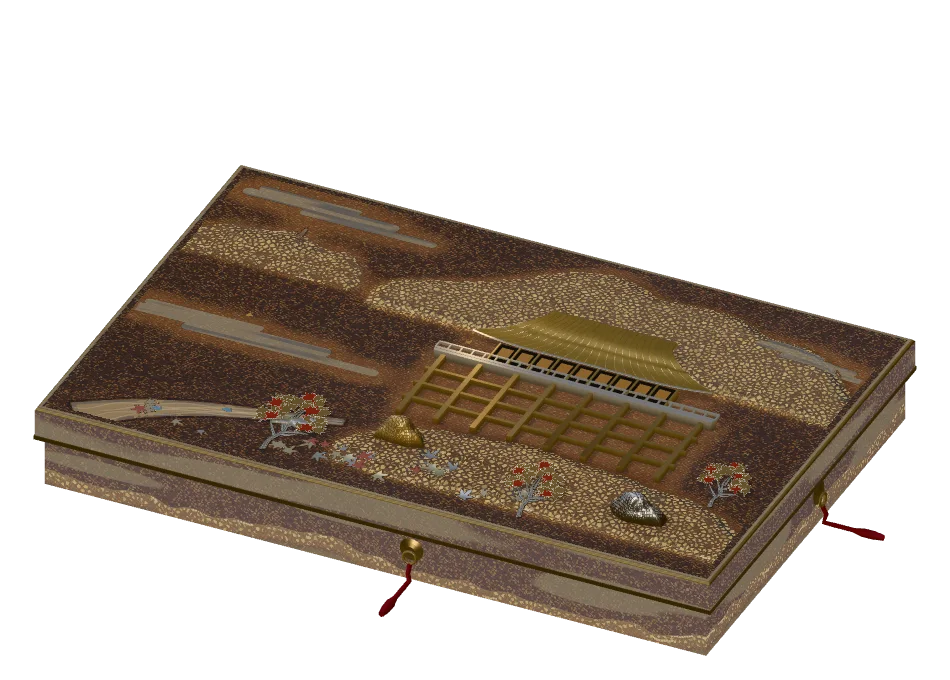
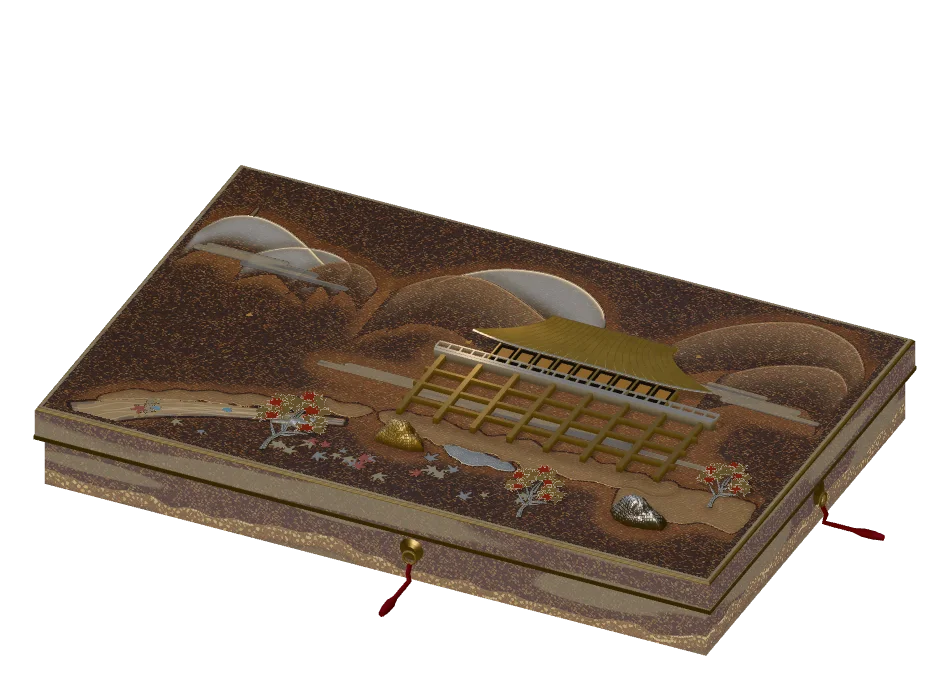
feat(plate): Higashiyama and Kita rebuilt with distant mountains, shores and mist in place of hills and the platform (nine wards, batch 1)
- Higashiyama: Otowa-yama as four overlapping heads behind the stage, a low
  western range, a shore along the Otowa water, mist under the stage posts.
- Kita: Kinugasa-yama as three low heads behind the pavilion, a ring of suhama
  round the pond with a silver waterline, mist.
- Outlines written by hand per piece; rocks untouched (user's instruction).
- Tests cover the two wards; fallback pictures for the two wards reshot.
Known: dark saw-tooth wedges at some mountain feet (from the wedge bake, also in
Fushimi); bake time +40 to +60 ms. Report: docs/agent-runs/2026-11-16-nine-wards.md.

For the user's review of direction; batches 2 and 3 wait on it.
Implemented by a Sonnet subagent, reviewed by the chair.

Changed region(s): [[0.0916, 0.2471, 0.9158, 0.8338]]

diff --git a/src/studies/toji/plate/higashiyama.js b/src/studies/toji/plate/higashiyama.js
@@ -1,23 +1,67 @@
 // 東山区・清水. One mass held in the air: the hall and its stage on a lattice over the drop, Otowa behind it,
-// maples in the valley. The left third is the drop itself: empty ground, a far ridge and a thread of water.
-import {MAT, hill, hillCrest, stream, suyari, rock, hall, bird, shell, kakezukuri, stampedMaple as maple, fallenLeaves, farPagoda} from './vocab.js';
+// maples in the valley. The left third is the drop itself: empty ground, the far western range and a thread of water.
+// The ground (doha.js) is drawn piece by piece, every outline written here as control points:
+//   Otowa-yama   ONE body of four rounded heads behind the hall; the tallest just right of the hall; two lower heads flank the hall on its left. The
+//                stage is thrust out of its flank. Its foot is dissolved by a band of mist. No rocks on it.
+//   the west     three low, pale heads at the far upper left (Nishiyama): the city's far side, with Yasaka's pagoda on its crest.
+//   the banks    a scalloped bank the lattice stands on, an arm of it following the Otowa water down to the left, an arm
+//                on the right under the maple; a thin silver ribbon under the front of the stage bank.
+// The mist across the lattice's middle is what makes it hang: the ground is behind it, far below.
+import {MAT, stream, suyari, rock, hall, bird, shell, kakezukuri, stampedMaple as maple, fallenLeaves, farPagoda} from './vocab.js';
+import {mountain, tongues} from './doha.js';
+
+// Toyama maki-e: each head is one smooth arc, [x, z] from its left foot to its right: a main peak and a shoulder or two, never the
+// same either side. Far to near. Why: the Otowa hill is what the stage is built against; its crest is the brightest line on the lid.
+const OTOWA = [
+  // 1 (blue-gold, the farthest, at the hall's left): a round head with its peak a little left of the middle, the roof's left slope below it
+  {ridge: [[-112, -112], [-88, -150], [-54, -180], [-8, -192], [34, -182], [68, -156], [86, -124]], depth: 84, tone: 'blue'},
+  // 2 (gold) the tallest, standing right of the hall: climbs slowly from behind the roof, drops steeply at the right
+  {ridge: [[150, -112], [178, -164], [222, -204], [270, -222], [318, -208], [346, -178], [360, -148]], depth: 92},
+  // 3 (gold) in front on the left: a broad shoulder at the drop's edge that falls away to the right toward the hall
+  {ridge: [[-136, -94], [-118, -124], [-94, -148], [-58, -154], [-16, -138], [22, -116], [50, -96]], depth: 92},
+  // 4 (gold) in front on the right: a small head with its peak toward the right, the last of the range
+  {ridge: [[226, -96], [238, -112], [258, -132], [290, -150], [324, -156], [346, -138], [356, -116]], depth: 72},
+];
+// Nishiyama, at the far upper left: one pale head in the blue metal, a second behind it, a small gold one in front on the right.
+const WEST = [
+  {ridge: [[-360, -110], [-346, -146], [-322, -162], [-290, -158], [-256, -140], [-226, -118], [-204, -102]], depth: 62, tone: 'blue'},
+  {ridge: [[-292, -96], [-278, -114], [-258, -128], [-228, -134], [-200, -126], [-182, -104]], depth: 52, tone: 'blue'},
+  {ridge: [[-232, -90], [-214, -116], [-190, -126], [-166, -114], [-150, -92]], depth: 46},
+];
+// The banks. Each outline is written round the piece, one point per bend of the shore (a scalloped edge: sharp coves, round lobes).
+const BANKS = [
+  // the thin silver ribbon under the front of the stage bank: only a hand's breadth of it shows below the gold
+  {p: [[30, 132], [48, 128], [72, 130], [96, 134], [112, 142], [104, 150], [84, 148], [70, 156], [52, 151], [36, 145]], tone: 'silver', seed: 61},
+  // the stage bank: the lattice's posts all stand on it; its upper edge lies behind them, its lower edge in gentle waves
+  {p: [[-56, 108], [-46, 100], [-30, 96], [-14, 98], [2, 92], [20, 96], [34, 101], [48, 95], [62, 100], [76, 92], [90, 95], [104, 90], [118, 96], [130, 99], [154, 93], [170, 90], [184, 96], [198, 92], [214, 99], [230, 95], [246, 101], [262, 96], [270, 100], [274, 110],
+    [270, 122], [252, 128], [234, 124], [214, 131], [192, 128], [170, 134], [148, 130], [130, 134], [118, 139], [106, 131], [94, 137], [82, 128], [58, 132], [36, 128], [22, 135], [8, 129], [-6, 135], [-18, 128], [-32, 132], [-42, 124], [-50, 120]], tone: 'gold', seed: 62, kiri: [.5, .62]},
+  // the water's bank: from under the stage's left foot down the valley beside the Otowa water, a narrow arm that follows it
+  {p: [[-62, 108], [-80, 104], [-98, 109], [-114, 106], [-130, 116], [-148, 118], [-166, 128], [-184, 130], [-202, 140], [-222, 142], [-240, 152], [-258, 154], [-274, 166], [-294, 170], [-312, 184], [-322, 196],
+    [-318, 204], [-300, 198], [-290, 190], [-278, 192], [-268, 181], [-256, 184], [-246, 171], [-234, 172], [-226, 162], [-206, 160], [-196, 152], [-184, 154], [-170, 146], [-158, 149], [-148, 142], [-140, 139], [-130, 141], [-120, 133], [-110, 135], [-100, 127], [-88, 128], [-72, 124]], tone: 'gold', seed: 63},
+  // the east bank: a broad arm under the maple on the right, its lower edge dipping to the stone
+  {p: [[226, 110], [240, 104], [258, 100], [276, 102], [296, 96], [318, 98], [338, 94], [358, 100],
+    [358, 146], [342, 152], [324, 148], [306, 156], [288, 162], [270, 172], [254, 176], [240, 166], [228, 158], [222, 144], [220, 126]], tone: 'gold', seed: 64},
+];
+/** The clusters, for the measuring and checking scripts. */
+const PIECES = {OTOWA, WEST, BANKS};
+export {PIECES};
 
 export function higashiyama() {
   return [
-    // Layer 0: the mountain behind the hall, the slope the lattice stands on, a far ridge, and the water.
-    ...hill('otowa', -150, 372, -218, -92, 13, {amp: .8, humps: 2}),
-    ...hill('slope', -70, 372, 84, 176, 27, {amp: .7, mat: MAT.gyobu, humps: 1}),
-    ...hill('ridge-west', -372, -176, -150, -108, 35, {amp: .32, mat: MAT.nashijiLight, humps: 3}),
+    // Layer 0: Otowa, the western range, the banks, and the water.
+    ...mountain('otowa', OTOWA),
+    ...mountain('nishiyama', WEST),
+    ...tongues('bank', BANKS),
     ...stream('otowa-water', [[-80, 138], [-150, 156], [-222, 176], [-284, 204], [-330, 238]], [5, 8, 12, 17, 24]),
     ...shell('shell', [[-118, 146, 4, 2], [-196, 166, 4.8, 5], [-262, 192, 5.4, 8]]),
-    // Yasaka's pagoda on the west ridge, very small and pale: its height is under a quarter of the hall's.
-    ...farPagoda('yasaka-tower', -262, hillCrest(-372, -176, -150, -108, 35, {humps: 3})(-262) + 1, 20, {on: 'ridge-west'}),
+    // Yasaka's pagoda on the crest of the western range, very small and pale: its height is under a quarter of the hall's.
+    ...farPagoda('yasaka-tower', -322, -161, 20, {on: 'nishiyama-blue'}),
     // Fallen leaves of cut gold and silver drift from the maples down the valley toward the water.
     ...fallenLeaves('momiji', -60, 192, 240, 34, 30, 7),
-    // Slot 1: mist and stones.
-    ...suyari('mist-drop', -372, -84, 34, 16, 5),
-    ...suyari('mist-sky', -350, -130, -200, 14, 11),
-    ...suyari('mist-east', 236, 372, -158, 12, 8),
+    // Slot 1: mist and stones. The mist across the lattice is the void under the stage; the others cut the feet of the two ranges.
+    ...suyari('mist-under', -150, 290, 52, 11, 5),
+    ...suyari('mist-west', -352, -176, -88, 11, 11),
+    ...suyari('mist-hall', 210, 352, -70, 12, 8),
     ...rock('rock-a', -10, 150, 30, 20, 5),
     ...rock('rock-b', 262, 176, 34, 22, 7, {mat: MAT.kirigin}),
     // Slot 2: the stage. Lattice, deck, hall and roof are one solid standing on the lattice's foot.

diff --git a/src/studies/toji/plate/kita.js b/src/studies/toji/plate/kita.js
@@ -1,6 +1,12 @@
-// A horizontal mirror: three gold storeys rise from the far bank, their broken image lies in still water.
+// A horizontal mirror: three gold storeys rise from the north bank, their broken image lies in still water.
 // The island pine balances the pavilion; the entire lower-left quarter stays bare lacquer and nashiji.
-import {MAT, blob, gardenGround, hill, pond, phoenix, storey, roof, branchPine as pine, bird, rock, suyari, grassTufts} from './vocab.js';
+// The ground (doha.js) is drawn piece by piece, every outline written here as control points:
+//   Kinugasa-yama  one low, wide body of three round heads behind the pavilion, with the pavilion standing in the saddle
+//                  between the two left heads so that its roofs and phoenix are read against the lacquer, not against powder.
+//   the suhama     the pond's shore: thick on the north (the pavilion stands on it) and the west, a thin silver ribbon along the
+//                  north waterline, a thin gold tongue from the south-east that carries the island pine.
+import {MAT, blob, pond, phoenix, storey, roof, branchPine as pine, bird, rock, suyari, grassTufts} from './vocab.js';
+import {mountain, tongues} from './doha.js';
 
 // The outline pond() draws for 'kyoko' (same arguments): the reeds are set on its north-west bank.
 const POND = [-5, 68, 244, 82, 3];
@@ -10,6 +16,33 @@ function reed(i, h, n) {
   const [x, z] = shore[i];
   return [x, z - 1.2, h, n, .16];
 }
+
+// Kinugasa, far to near. Why: it is the green hill behind the Golden Pavilion; low, so it answers the pavilion instead of competing.
+const KINUGASA = [
+  // 1 (blue-gold, the farthest) at the far left: a full arc, its peak a little left of the middle
+  {ridge: [[-340, -118], [-316, -152], [-276, -176], [-232, -182], [-190, -170], [-160, -146], [-142, -118]], depth: 70, tone: 'blue'},
+  // 2 (gold) the broadest, right of the pavilion: climbs slowly and drops at the right
+  {ridge: [[-60, -110], [-34, -142], [10, -168], [72, -182], [134, -176], [186, -152], [214, -122]], depth: 78},
+  // 3 (gold) in front on the right: a low shoulder with its peak toward the right
+  {ridge: [[120, -100], [148, -112], [182, -128], [218, -146], [252, -150], [286, -138], [324, -118], [352, -100]], depth: 66},
+];
+// The pond's shore, listed far to near (a later piece lies over an earlier one).
+const SHORE = [
+  // north: the thick gold bank the pavilion stands on; its upper edge behind the pavilion in low waves, its lower edge a little over the water
+  {p: [[-326, -30], [-312, -42], [-292, -48], [-270, -44], [-250, -52], [-226, -56], [-202, -50], [-178, -57], [-150, -60], [-122, -54], [-96, -58], [-68, -56], [-40, -50], [-28, -55], [-14, -49], [0, -54], [12, -47], [26, -52], [38, -44], [64, -48], [76, -43], [88, -49], [98, -39], [112, -30], [124, -16],
+    [118, -4], [96, -6], [76, -12], [50, -16], [26, -14], [4, -18], [-12, -10], [-30, -16], [-46, -9], [-62, -15], [-78, -6], [-96, -13], [-110, -9], [-132, -6], [-158, 8], [-170, 15], [-184, 11], [-196, 22], [-210, 20], [-222, 31], [-236, 28], [-250, 34], [-272, 26], [-296, 20], [-318, 6], [-328, -12]], tone: 'gold', seed: 71, kiri: [.5, .58]},
+  // west: a thick crescent along the pond's west end, over the end of the north bank
+  {p: [[-272, 28], [-252, 34], [-238, 48], [-226, 60], [-232, 72], [-224, 86], [-234, 98], [-244, 112], [-258, 126],
+    [-282, 126], [-296, 112], [-304, 94], [-312, 76], [-316, 56], [-306, 40], [-290, 32]], tone: 'gold', seed: 72},
+  // north waterline: the silver ribbon laid over the gold bank's lower edge, only a hand's breadth wide
+  {p: [[-186, 10], [-160, 2], [-136, -6], [-110, -10], [-84, -12], [-58, -8], [-44, -13], [-30, -9], [-16, -13], [-4, -10], [22, -6], [52, -4], [74, 0],
+    [66, 8], [44, 6], [18, 10], [-8, 6], [-34, 8], [-60, 4], [-86, 8], [-112, 3], [-140, 10], [-164, 16]], tone: 'silver', seed: 73},
+  // south-east: a thin tongue from the shore out under the island pine, ending at the stone
+  {p: [[150, 92], [164, 86], [182, 90], [200, 100], [218, 112], [234, 124], [244, 140], [236, 150], [220, 146], [204, 136], [188, 126], [172, 116], [158, 106]], tone: 'gold', seed: 74},
+];
+/** The clusters, for the measuring and checking scripts. */
+const PIECES = {KINUGASA, SHORE};
+export {PIECES};
 
 export function kita() {
   const pavilion = [];
@@ -21,13 +54,13 @@ export function kita() {
       {group: 'kinkaku', order: i * 2 + 1, ridgeHalf: w * .48, motionWith: `kinkaku-wall-${i}`}));
   }
   return [
-    ...gardenGround('shore-ground', [[-345, -210], [165, -210], [244, -122], [222, -35], [320, 100], [295, 173], [-43, 185], [-155, 145], [-300, 88]]),
-    ...hill('far-bank', -270, 115, -213, -164, 12, {amp: .3, mat: MAT.mura}),
+    ...mountain('kinugasa', KINUGASA),
     ...pond('kyoko', -5, 68, 244, 82, 3, {reflection: {x: -85, z: 9, width: 78, height: 90}}),
+    ...tongues('suhama', SHORE),
     // Reeds of silver line work on the north-west bank, from the pavilion's west foot toward the shore stone.
     ...grassTufts('kyoko-reeds', [reed(45, 21, 5), reed(47, 25, 5), reed(49, 21, 5), reed(51, 18, 4)], {on: 'kyoko', mat: MAT.silver, seed: 5, w: 2.4, spread: .12}),
-    ...suyari('mist-west', -342, -202, -102, 13, 2),
-    ...suyari('mist-east', 105, 342, -195, 14, 7),
+    ...suyari('mist-west', -350, -196, -98, 10, 2),
+    ...suyari('mist-east', 232, 352, -84, 10, 7),
     ...rock('shore-stone', -246, 18, 29, 20, 5),
     ...rock('island-stone', 204, 134, 30, 18, 8, {mat: MAT.kirigin}),
     ...pavilion,

diff --git a/docs/agent-runs/2026-11-16-nine-wards.md b/docs/agent-runs/2026-11-16-nine-wards.md
@@ -1,0 +1,111 @@
+# 其餘九區 第一批：東山、北（報告）
+
+任務：九區 第一批 東山（W_HIGASHIYAMA）、北（W_KITA）／**完成**（等使用者看方向）。
+請求模型／強度：Sonnet 5.5，未指定強度；實際設定：未確認。
+工作區：`C:\Git\_wt_kyoto_doha`，分支 `agent/nine1-1116`，base `b12d3b5`。全部未提交。
+
+## 改了哪些檔案
+
+- `src/studies/toji/plate/higashiyama.js`、`kita.js`：拆掉 `hill()`、`gardenGround()`，改用 `mountain()`（遠山）與 `tongues()`（洲浜／岸）。每座山的稜、每片岸的輪廓逐點手寫；匯出 `PIECES` 供量測腳本讀。
+- `scripts/plate-doha-similar.mjs`：ward→模組表加入兩區。
+- `scripts/plate.test.mjs`：`dohaWards` 加入兩區；新增 `nineWards`（沿用的岩不計入舊的「3–20 顆」、群數、片數、銀比、岩總數範圍，改驗：遠山頭數、總佔比 15–35%、留白、直線 ≤30）；相似度測試對這兩區不驗岩（岩依指示未動）；零件數 東山 28→31、北 30→32。
+- `src/studies/toji/plate/static/W_HIGASHIYAMA.*`、`W_KITA.*`：降級圖重拍，其餘九區已還原。
+- 沒動：`doha.js`、`three-pack.js`、`three-renderer.js`、`bake.js`、`crag-mesh.js`、`src/data/`、受保護檔案、其餘九區、岩。
+
+## 每座山、每片岸的理由
+
+東山
+| 件 | 理由 |
+|---|---|
+| 音羽山 1（青金，最遠，本堂左側，稜頂略偏左） | 本堂左邊的山腰；屋頂左坡在它下面，山體從本堂兩側「抱」住舞台 |
+| 音羽山 2（金，最高，本堂右側，右端陡落） | 主峰，山體的重心；放在本堂右邊，因為本堂屋頂本身頂到蓋面後緣，放在正後方會被整個擋住（見「看到什麼」） |
+| 音羽山 3（金，左前，稜頂偏左、右坡長） | 懸崖左緣的肩，連到本堂；形狀與 1、2 不同向 |
+| 音羽山 4（金，右前，稜頂偏右） | 山體最右的小頭，收尾；壓在 2 的腳上 |
+| 西山 A、B（青金）、C（金，小） | 左上遠處的一段低山，淡；右側遠處襯出「懸」的空曠。八坂塔掛在 A 的稜上（`on: 'nishiyama-blue'`） |
+| 舞台岸（金，長，上緣在柱後、下緣小波） | 舞台八根柱子全部站在它上面；懸造「站在山腰」 |
+| 銀的小洲（金岸下緣之下，只露一指寬） | 金銀交錯；石 rock-a 在它左側 |
+| 水邊岸（金，窄，順音羽之水往左下） | 順著現有的水走，岸的下緣貼著水的北岸 |
+| 東岸（金，楓與岩 rock-b 之下） | 右前楓（maple-c）與銀岩站的地；下緣在石處往下凹 |
+| 霞 mist-under | 橫過柱間：舞台下面是空的 |
+| 霞 mist-west／mist-hall | 切西山的腳、音羽右側山的腳 |
+
+北
+| 件 | 理由 |
+|---|---|
+| 衣笠山 1（青金，左，遠） | 西松後面的山；淡，不和金閣搶 |
+| 衣笠山 2（金，最寬，金閣右後） | 金閣後面的山體；低而寬，稜頂在 y -182，只是金閣金屋頂右邊的背景 |
+| 衣笠山 3（金，右前，稜頂偏右） | 低的肩；與 2 異向 |
+| 兩顆左頭之間留空 | 金閣與鳳凰站在鞍部，屋頂靠漆地襯出，不靠粉 |
+| 北岸（金，最厚） | 金閣站在其上；西松也站在它的西端 |
+| 西岸（金，厚的新月） | 池的西端；岩 shore-stone、葦的根在它與北岸的接縫 |
+| 北岸水線（銀，窄帶，壓在北岸下緣上） | 金之間夾的銀；金閣倒影的上緣由它收住 |
+| 東南舌（金，薄） | 島松的立足處，島石在它的舌尖；表現「東南薄」 |
+| 霞 mist-west／mist-east | 切兩端山腳 |
+
+## 數字（`plate-doha-measure.mjs`）
+
+| | 東山 | 北 |
+|---|---|---|
+| 山（可見面積佔蓋面） | 15.3% | 9.5% |
+| 岸（金／銀） | 7.6%／0.5% | 9.8%／1.1% |
+| 山＋岸＋岩（格點量，扣重疊） | 21.7% | 19.9% |
+| 留白的地／最大連通塊 | 62.9%／79.3% | 56.9%／95.7% |
+| 最大單片 | 3.62% | 7.01%（北岸） |
+| 銀的片（非遠山） | 25%（1／4） | 25%（1／4） |
+| 最長直線 | 27.9 | 24.7 |
+| 山頭數／岸片數 | 7／4 | 3／4 |
+| 岩（量測腳本只數 `rock-*`） | 2 | 2（名為 shore-stone、island-stone，腳本數 0） |
+
+相似度（`plate-doha-similar.mjs`，門檻 2×jitter 底）：通過。東山 岸 0.227（門檻 0.113）、山 0.075（0.06）；北 岸 0.363（0.091）、山 0.148（0.06）。岩：東山 rock-a／rock-b 0.078 低於門檻 0.113，但岩是依指示未動的舊岩，測試對這兩區不驗岩。
+
+## 三層調子（`PLATE_TONE=1`，日，L50）
+
+| | 地 | 濃梨子地 | 圖案 |
+|---|---|---|---|
+| 東山 修前 | 35 | 53 | 68 |
+| 東山 修後 | 34 | 51 | 68 |
+| 北 修前 | 26 | 57 | 72 |
+| 北 修後 | 31 | 56 | 72 |
+| 伏見／中京（目標） | 27–40 | 46–60 | ≥50 |
+
+夜：東山 地 26→25、濃 42→40、圖案 46→46；北 地 21→24、濃 48→45、圖案 51→51。順序與日夜差距沒變。
+
+## 穿插、切金、烘焙、效能
+
+- 穿插 `plate-clip.mjs`：findings 0（十一區全跑）。
+- 切金（`PLATE_KIRI=1`，紅點數／分母／比）：東山 日 384→255／28986→8050／1.3→3.2%，夜 492→350／29218→8223／1.7→4.3%；北 日 1759→332／47139→12130／3.7→2.7%，夜 1533→99／46946→11891／3.3→0.8%。**東山的比例升高**：絕對點數下降（日 -34%、夜 -29%），但分母（丘的梨子地面）因丘拆掉縮成約四分之一。我保留了舞台岸上那一小串切金；若要嚴格的比例不上升，拿掉 `higashiyama.js` 舞台岸的 `kiri` 欄位即可（一行）。
+- 烘焙（`bakeMs`，三次，ms）：東山 修前 114／102／88，修後 154／156／164（約 +60，**在門檻邊緣，略超過**）；北 修前 159／144／150，修後 205／182／193（約 +40）。
+- 效能（375×812、`PLATE_CPU=4`、換到該區後最長幀，各兩次，ms）：東山 修前 929／909，修後 921／913；北 修前 446／471，修後 450／342；閒置 4.2 兩邊相同。沒有變差（這個量法在這台機器上的絕對值比先前報告高，只看前後比）。
+
+## 四項驗收
+
+- `npm run lint`：通過（tsc 無輸出）。
+- `npx --no-install tsx validate_data.js --strict`：ERROR 0、WARN 0。
+- `npm test`：138／138（另一組 17／17）。
+- `npm run build`：通過。
+
+## 每張圖看到什麼（`.shots/nine/`）
+
+- `higashiyama/hi-{day,night}-before-after.png`（左修前右修後）、`hi-after-*.png`、`hi-zoom-mountain.png`、`hi-zoom-bank.png`；`kita/ki-…` 同名。
+- 東山修後：本堂兩側各有一組圓山頭（左邊淺色的西山、音羽的左頭，右邊兩個暖金的圓頂，稜是最亮的細線，面往下暈），本堂在中間。柱間看得見後面的漆地與一條霞，「懸」比修前清楚。修前是三條長帶與一整塊平坡。像 `user-toyama-cup-a.png` 的肉合研出：右邊兩頭像，稜亮、面暈；左邊三個頭較暗，稜不明顯。
+- 北修後：池與金閣不變，北岸、西岸、東南舌、北岸水線的銀帶是分開的幾片，輪廓有波浪；金閣站在鞍部，屋頂與鳳凰襯漆地，比修前（金閣背後是整塊金的台地）突出。山：左淺青、右兩個金頭，低而寬。像 `shioyama-2.jpg` 的舌片與金銀交錯，但池的水面（梨子地加波紋）比岸亮，這是樣板沿用的材質，不是我改的。
+- 不對的地方：(1) 本堂屋頂頂到蓋面後緣，視覺上擋住正後方的山；開案書要的「最高的在本堂後方偏右」只能放在本堂右側，主峰稜頂 (270, -222)。(2) 山的腳與兩端有鋸齒狀的暗三角（樣板伏見也有，來自 `bake.js` 楔形的端部），我把兩個最陡的端部放緩，沒有消除。(3) 霞是灰褐的扁帶，邊緣硬，樣板同樣；東山三條、北兩條。(4) 銀的小洲在東山像一灘水。(5) 放大圖沒有把目標拉到正中（`PLATE_CENTER` 在這台機器上沒有移動），目標在畫面內。
+
+## 自審（三輪）
+
+1. 東山第一版山全被本堂擋住 → 山頭往兩側移，主峰移到本堂右側，山腳霞縮短（只切西山與右山的腳）。
+2. 相似度不過（兩對山頭彼此同形）→ 頭的稜頂位置與高寬比改成不同；銀的小洲改成緊湊的瓣形。
+3. 直線 >30 → 岸的緩斜邊每邊加扇貝；東山山頭左端放緩後留白連通率掉到 54.7%（<70%），端點右移回 79.3%。
+
+答不出理由而拿掉的：東山的「mist-sky」與「mist-east」兩條霞（對不上山腳），北的「mist」改位置；其餘件都有表中的理由。
+
+## 沒做到／要使用者決定
+
+- 烘焙東山 +60 ms，略超過門檻；原因是遠山的楔形烘焙比舊丘貴，不在構圖資料能降的範圍（要降只能少幾個頭，會失去「完整山體」）。
+- 東山切金比例上升（原因與一行的處理見上）。
+- 岩原樣，因此兩區的岩仍是舊的；相似度的岩項對這兩區不驗。
+- 降級圖已重拍（只有兩區）；`.shots/` 是暫存，未提交。
+
+## 回退
+
+`git checkout -- src/studies/toji/plate/higashiyama.js src/studies/toji/plate/kita.js scripts/plate.test.mjs scripts/plate-doha-similar.mjs src/studies/toji/plate/static/W_HIGASHIYAMA.* src/studies/toji/plate/static/W_KITA.*`；刪除本檔。
